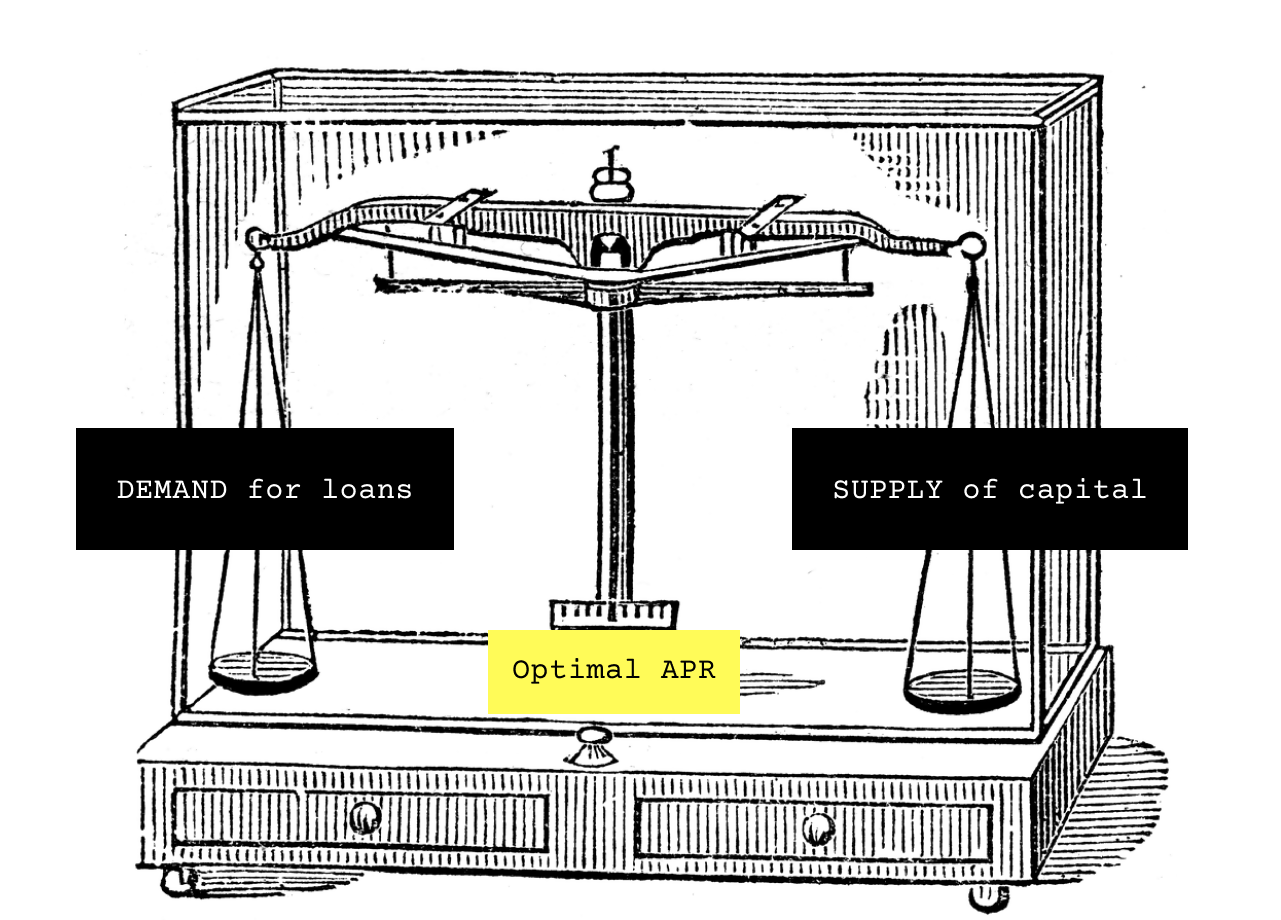
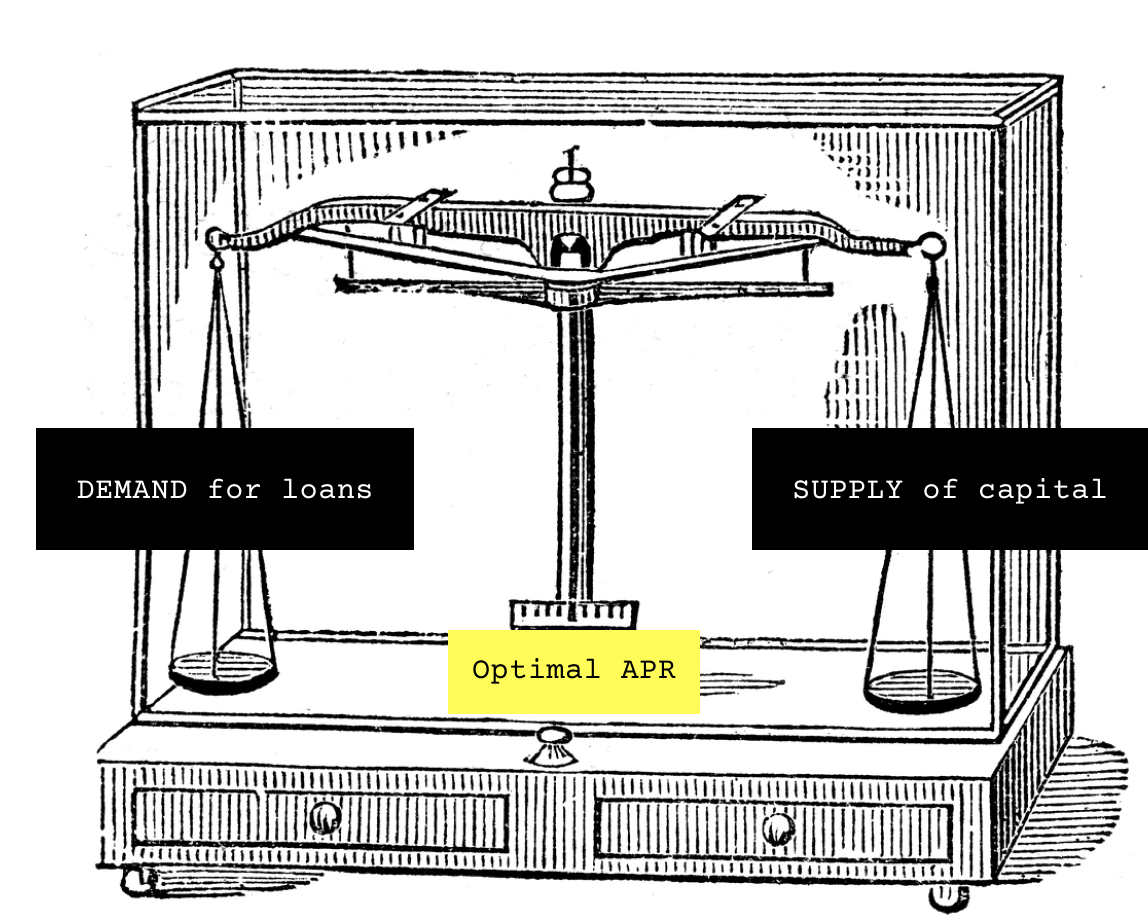
fix: 2x image for scale

Changed region(s): [[0.061, 0.0609, 1.0, 1.0], [0.0305, 0.4565, 0.3659, 0.6087]]

diff --git a/components/LandingPageContent/MainLandingPage/LandingPageContent.tsx b/components/LandingPageContent/MainLandingPage/LandingPageContent.tsx
@@ -18,7 +18,9 @@ export function LandingPageContent() {
         <br />
         powered by Uniswap V3.
       </h1>
-      <Image src={LandingPageScale} alt="" width={640} height={460} />
+      <div className={styles['scale-container']}>
+        <Image src={LandingPageScale} alt="" />
+      </div>
       <div className={styles.wrapper}>
         <DashedLine />
         <Tables />

diff --git a/components/LandingPageContent/MainLandingPage/LandingPageContent.module.css b/components/LandingPageContent/MainLandingPage/LandingPageContent.module.css
@@ -31,6 +31,11 @@
   position: relative;
 }
 
+.scale-container {
+  position: relative;
+  max-width: 640px;
+}
+
 /* Diagram */
 .diagram {
   padding-top: 110px;
